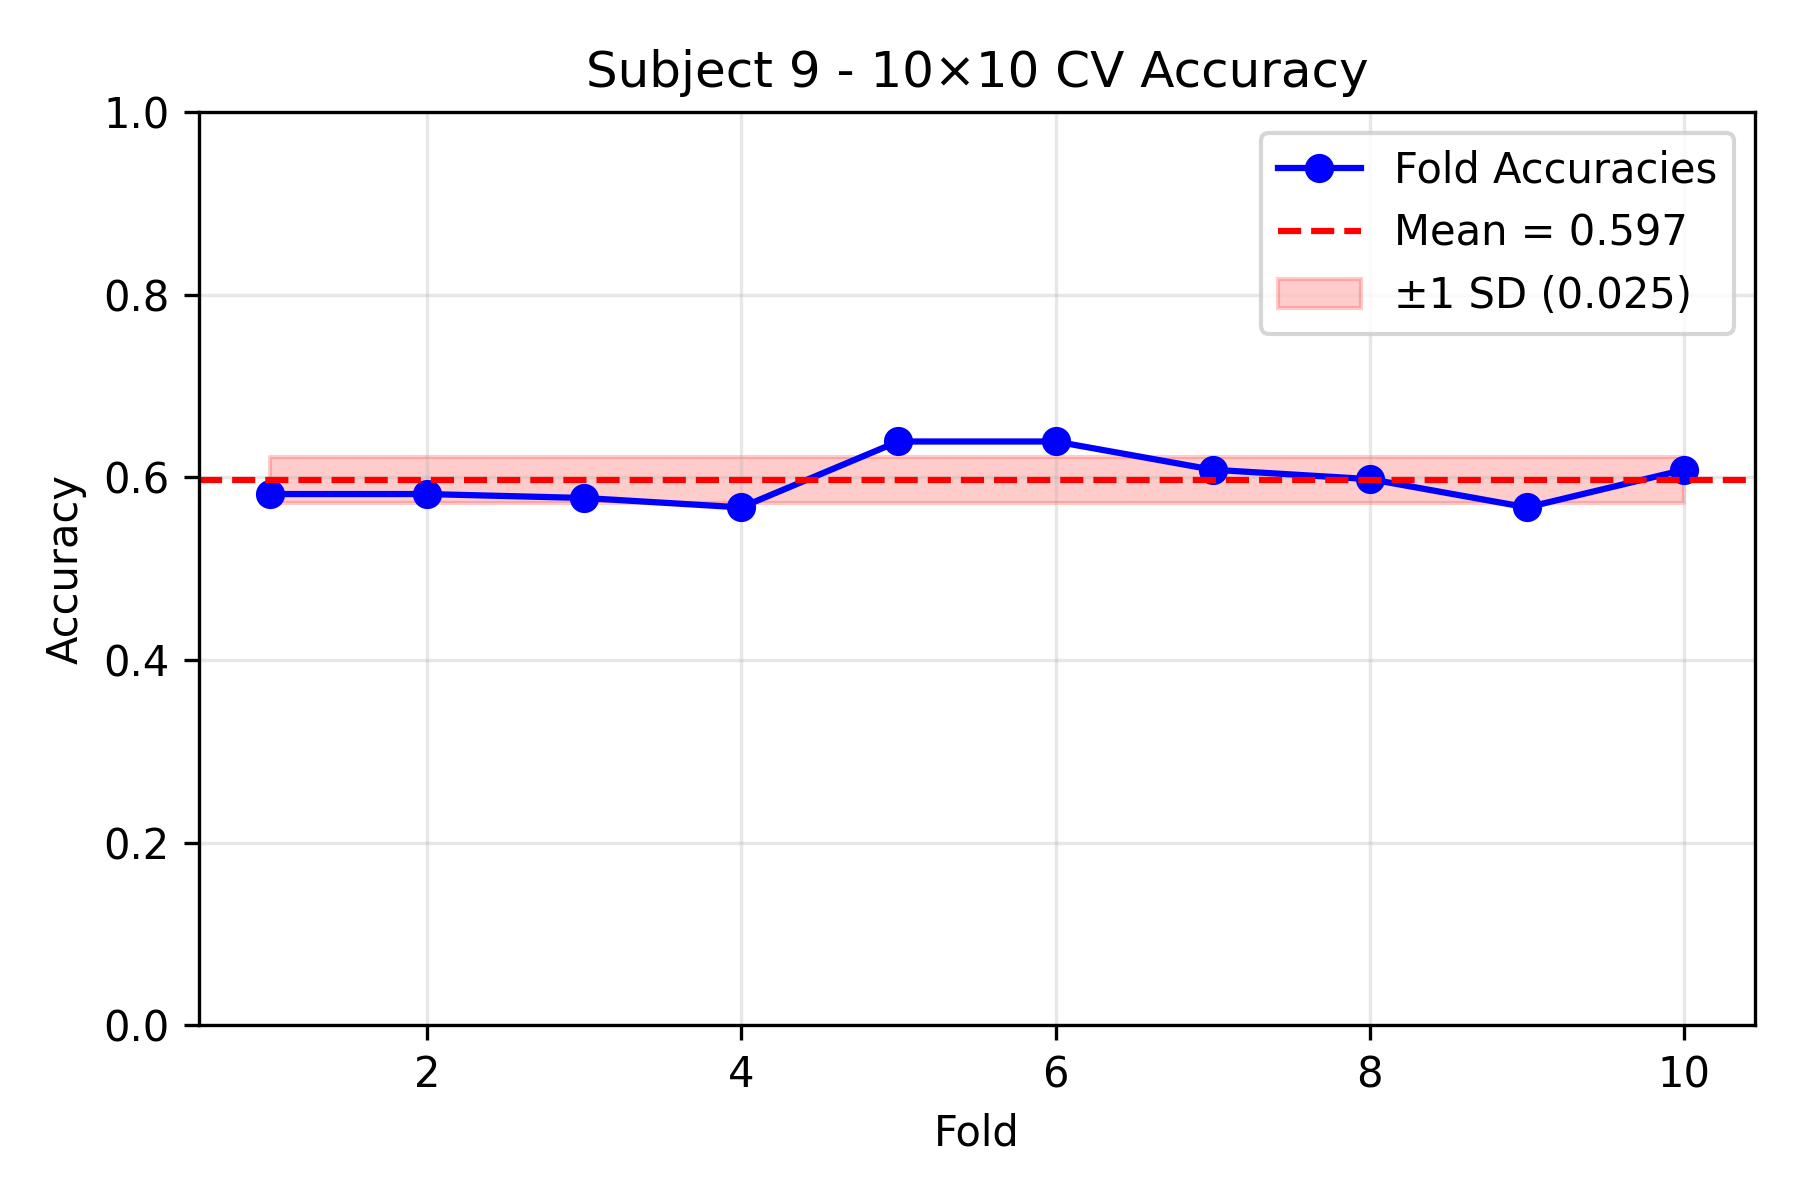
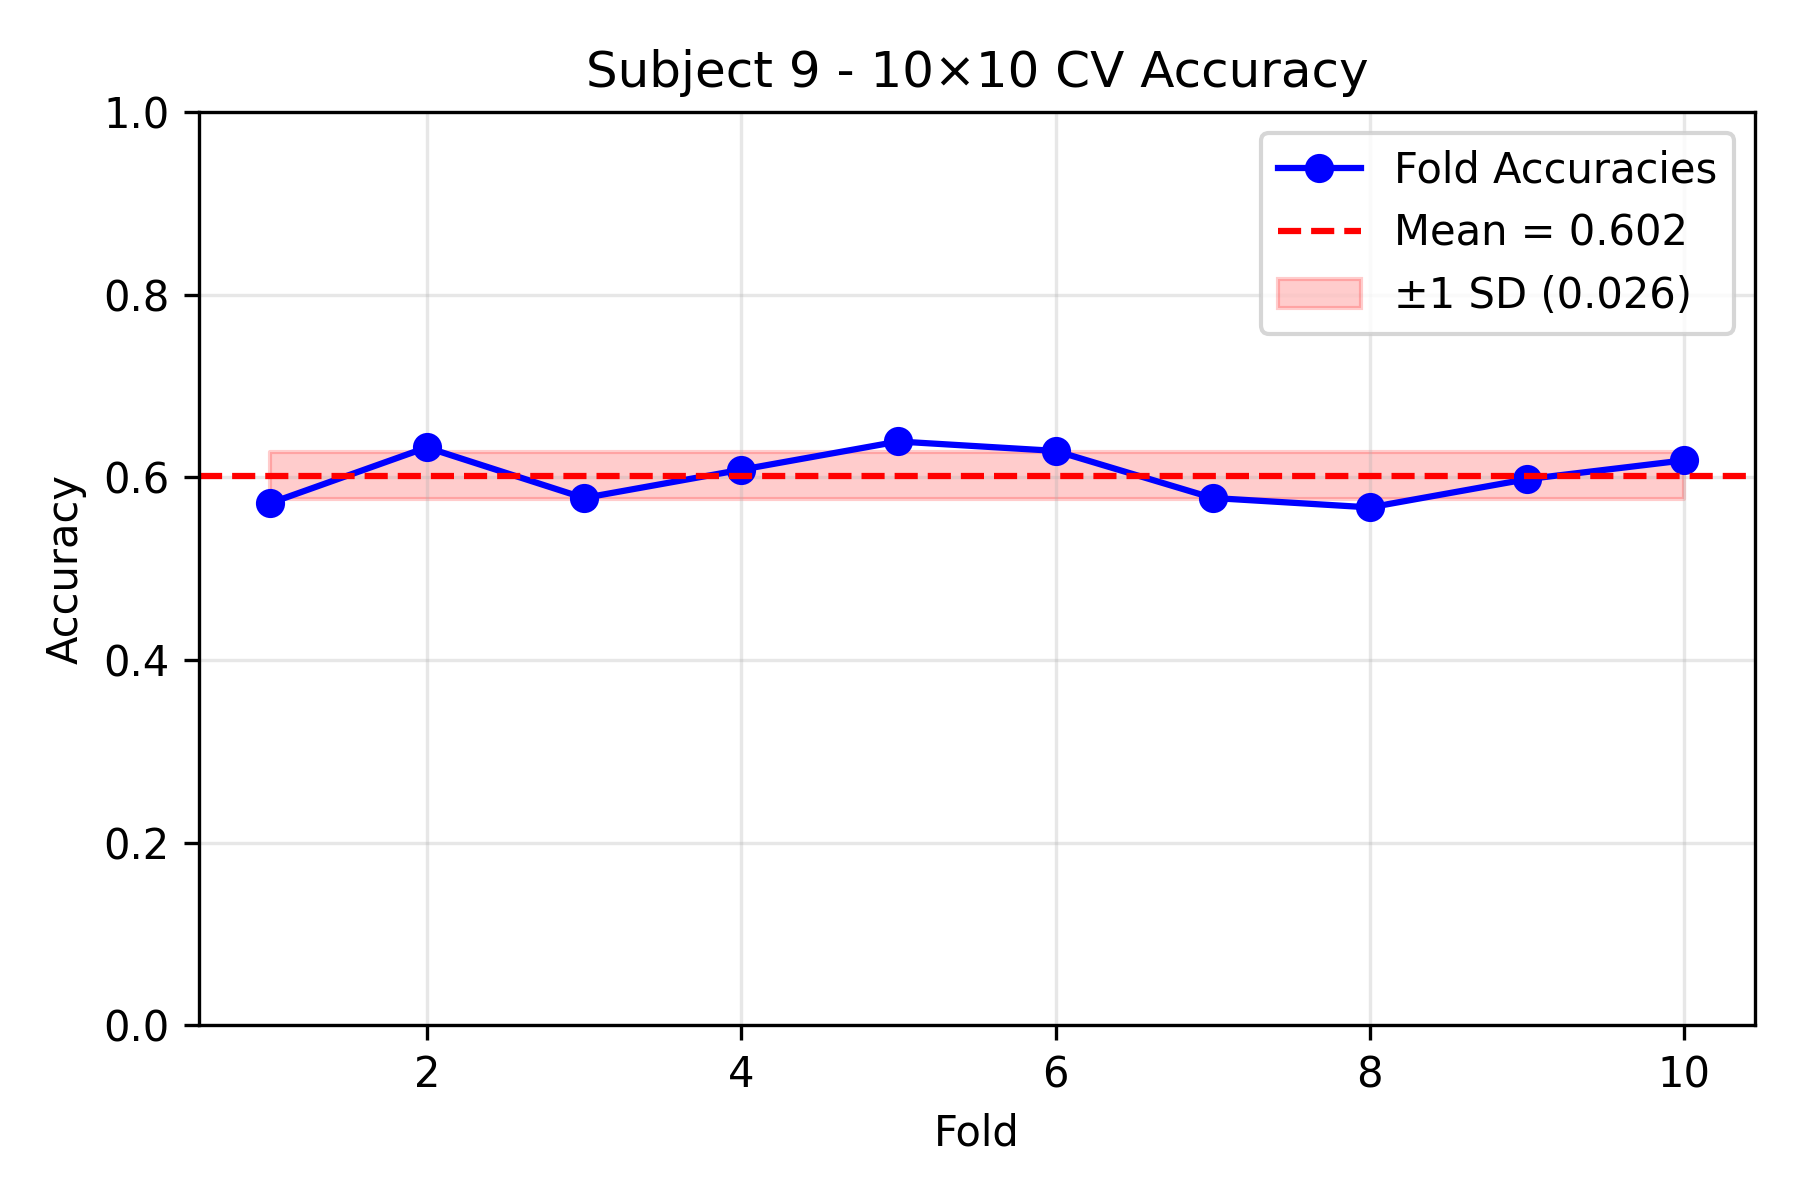
set seed 42

Changed region(s): [[0.1244, 0.3392, 0.9644, 0.4317], [0.9022, 0.185, 0.9333, 0.2158]]

diff --git a/CSP_LDA(baseline)_10x10.py b/CSP_LDA(baseline)_10x10.py
@@ -1,11 +1,20 @@
 import mne
 import numpy as np
-import glob, re, os
+import glob, re, os, random
 from sklearn.discriminant_analysis import LinearDiscriminantAnalysis
 from sklearn.pipeline import Pipeline
 from mne.decoding import CSP
 from sklearn.model_selection import StratifiedKFold
 import matplotlib.pyplot as plt
+
+# --------------------------
+# 0. 시드 고정
+# --------------------------
+SEED = 42
+def set_seed(seed=SEED):
+    random.seed(seed)
+    np.random.seed(seed)
+set_seed()
 
 # --------------------------
 # 1. dataset 불러오기 (Training 세션만)
@@ -16,17 +25,17 @@ print("Using files:", files)
 X_all, y_all, subj_ids = [], [], []
 
 for f in files:
-    subj_id = int(re.findall(r"B0(\d)", f)[0])  # subject ID 추출
+    subj_id = int(re.findall(r"B0(\d)", f)[0])
     print(f"\n=== Loading {f} (Subject {subj_id}) ===")
 
     raw = mne.io.read_raw_gdf(f, preload=True)
     events, event_dict = mne.events_from_annotations(raw)
 
-    # C3 단일 채널만 사용
+    # ✅ C3 단일 채널 + 8–30Hz band-pass FIR filter
     raw.pick_channels(["EEG:C3"])
     raw.filter(8., 30., fir_design="firwin")
 
-    # MI 이벤트 매핑
+    # MI 이벤트
     if "769" in event_dict:
         left = event_dict["769"]
         right = event_dict["770"]
@@ -34,30 +43,29 @@ for f in files:
         left = event_dict[769]
         right = event_dict[770]
     else:
-        print(f"⚠ {f}에서 MI 이벤트 없음 → 건너뜀")
+        print(f"⚠ {f}: MI 이벤트 없음 → 건너뜀")
         continue
 
-    # 이벤트를 공통 코드(1,2)로 변환
+    # 이벤트 재매핑
     events_fixed = events.copy()
     events_fixed[events_fixed[:, -1] == left, -1] = 1
     events_fixed[events_fixed[:, -1] == right, -1] = 2
     event_id = {"left": 1, "right": 2}
 
-    # === Rest epochs (−4.0 ~ 0.0 s) ===
+    # === Rest epochs (−4~0s)
     rest_epochs = mne.Epochs(raw, events_fixed, event_id=event_id,
                              tmin=-4.0, tmax=0.0,
                              baseline=None, preload=True)
-    X_rest = rest_epochs.get_data()   # (n_trials, 1, times)
-    y_rest = np.zeros(len(X_rest))    # label = 0
+    X_rest = rest_epochs.get_data()
+    y_rest = np.zeros(len(X_rest))
 
-    # === MI epochs (0.0 ~ 4.0 s) ===
+    # === MI epochs (0~4s)
     mi_epochs = mne.Epochs(raw, events_fixed, event_id=event_id,
                            tmin=0.0, tmax=4.0,
                            baseline=None, preload=True)
     X_mi = mi_epochs.get_data()
-    y_mi = np.ones(len(X_mi))         # label = 1
+    y_mi = np.ones(len(X_mi))
 
-    # Rest + MI 합치기
     X_subj = np.concatenate([X_rest, X_mi], axis=0)
     y_subj = np.concatenate([y_rest, y_mi], axis=0)
 
@@ -68,7 +76,7 @@ for f in files:
 # --------------------------
 # 2. 데이터 합치기
 # --------------------------
-X = np.concatenate(X_all, axis=0)  # (trials, 1, times)
+X = np.concatenate(X_all, axis=0)
 y = np.concatenate(y_all, axis=0)
 subj_ids = np.array(subj_ids)
 
@@ -94,11 +102,10 @@ subject_results = []
 
 for subj in unique_subjects:
     subj_mask = subj_ids == subj
-    X_subj = X[subj_mask]
-    y_subj = y[subj_mask]
+    X_subj, y_subj = X[subj_mask], y[subj_mask]
     print(f"\n=== Subject {subj}: 10×10 CV ({len(y_subj)} trials) ===")
 
-    skf = StratifiedKFold(n_splits=10, shuffle=True, random_state=42)
+    skf = StratifiedKFold(n_splits=10, shuffle=True)
     fold_accs = []
 
     for fold, (train_idx, test_idx) in enumerate(skf.split(X_subj, y_subj), 1):
@@ -116,7 +123,7 @@ for subj in unique_subjects:
     print(f" → Subject {subj} mean = {mean_acc:.3f} ± {std_acc:.3f}")
 
     # --------------------------
-    # 5. Fold Accuracy 시각화
+    # Fold Accuracy 시각화
     # --------------------------
     plt.figure(figsize=(7, 4))
     plt.plot(range(1, 11), fold_accs, marker='o', label="Fold Accuracies")
@@ -124,7 +131,6 @@ for subj in unique_subjects:
     plt.fill_between(range(1, 11),
                      mean_acc - std_acc, mean_acc + std_acc,
                      color='r', alpha=0.2, label=f"±1 SD ({std_acc:.3f})")
-
     plt.title(f"Subject {subj} | 10×10 CV Accuracy")
     plt.xlabel("Fold")
     plt.ylabel("Accuracy")
@@ -135,7 +141,7 @@ for subj in unique_subjects:
     plt.close()
 
 # --------------------------
-# 6. 전체 평균 및 막대그래프 시각화
+# 5. 전체 평균 및 시각화
 # --------------------------
 overall_mean = np.mean(subject_results)
 overall_std = np.std(subject_results)
@@ -144,9 +150,6 @@ print("\n✅ Subject-wise mean accuracies:", np.round(subject_results, 3))
 print(f"Overall mean = {overall_mean:.3f} ± {overall_std:.3f}")
 print(f"📁 Results saved to: {save_dir}/")
 
-# --------------------------
-# 7. 전체 subject 막대그래프 시각화
-# --------------------------
 subjects = [f"Subj{s}" for s in unique_subjects]
 plt.figure(figsize=(8, 5))
 plt.bar(subjects, subject_results, color='lightseagreen', edgecolor='k')
@@ -154,8 +157,7 @@ plt.axhline(overall_mean, color='red', linestyle='--', label=f'Mean = {overall_m
 plt.fill_between(range(len(subjects)),
                  overall_mean - overall_std, overall_mean + overall_std,
                  color='red', alpha=0.2, label=f'±1 SD ({overall_std:.3f})')
-
-plt.title("Subject-wise Mean Accuracy (CSP+LDA, 10×10 CV, C3)")
+plt.title("Subject-wise Mean Accuracy (CSP+LDA, 10×10 CV, C3 8–30Hz)")
 plt.ylabel("Accuracy")
 plt.ylim(0, 1)
 plt.xticks(rotation=45)

diff --git a/train_EEGNet_10x10.py b/train_EEGNet_10x10.py
@@ -1,13 +1,26 @@
 import mne
 import numpy as np
-import glob
+import glob, os, re, random
 import torch
 import torch.nn as nn
 import torch.optim as optim
 from torch.utils.data import DataLoader, TensorDataset
 import matplotlib.pyplot as plt
-import os, re
 from sklearn.model_selection import StratifiedKFold
+
+# --------------------------
+# 0. 시드 고정 (완전 재현용)
+# --------------------------
+SEED = 42
+def set_seed(seed=SEED):
+    import torch.backends.cudnn as cudnn
+    random.seed(seed)
+    np.random.seed(seed)
+    torch.manual_seed(seed)
+    torch.cuda.manual_seed_all(seed)
+    cudnn.deterministic = True
+    cudnn.benchmark = False
+set_seed(SEED)
 
 # --------------------------
 # 1. dataset 불러오기 (Training 세션만, 단채널 C3)
@@ -18,23 +31,21 @@ print("Using files:", files)
 X_all, y_all, subj_ids = [], [], []
 
 for f in files:
-    subj_id = int(re.findall(r"B0(\d)", f)[0])  # subject ID 추출
+    subj_id = int(re.findall(r"B0(\d)", f)[0])
     print(f"\n=== Loading {f} (Subject {subj_id}) ===")
 
-    raw = mne.io.read_raw_gdf(f, preload=True)
-    events, event_dict = mne.events_from_annotations(raw)
+    raw = mne.io.read_raw_gdf(f, preload=True, verbose=False)
+    events, event_dict = mne.events_from_annotations(raw, verbose=False)
 
-    # --- 단일채널 C3 + Band-pass 8–30 Hz (FIR)
+    # --- ✅ 단일채널 C3 + Band-pass 8–30 Hz (FIR)
     raw.pick_channels(["EEG:C3"])
-    raw.filter(8., 30., fir_design="firwin")
+    raw.filter(8., 30., fir_design="firwin", verbose=False)
 
     # --- MI 이벤트 탐색
     if "769" in event_dict:
-        left = event_dict["769"]
-        right = event_dict["770"]
+        left, right = event_dict["769"], event_dict["770"]
     elif 769 in event_dict:
-        left = event_dict[769]
-        right = event_dict[770]
+        left, right = event_dict[769], event_dict[770]
     else:
         print(f"⚠ {f}에서 MI 이벤트 없음 → 건너뜀")
         continue
@@ -48,14 +59,14 @@ for f in files:
     # === Rest epochs (−4.0 ~ 0.0 s)
     rest_epochs = mne.Epochs(raw, events_fixed, event_id=event_id,
                              tmin=-4.0, tmax=0.0,
-                             baseline=None, preload=True)
+                             baseline=None, preload=True, verbose=False)
     X_rest = rest_epochs.get_data()
     y_rest = np.zeros(len(X_rest))
 
     # === MI epochs (0.0 ~ 4.0 s)
     mi_epochs = mne.Epochs(raw, events_fixed, event_id=event_id,
                            tmin=0.0, tmax=4.0,
-                           baseline=None, preload=True)
+                           baseline=None, preload=True, verbose=False)
     X_mi = mi_epochs.get_data()
     y_mi = np.ones(len(X_mi))
 
@@ -143,7 +154,7 @@ for subj in unique_subjects:
     X_subj = X[subj_mask]
     y_subj = y[subj_mask]
 
-    skf = StratifiedKFold(n_splits=10, shuffle=True, random_state=42)
+    skf = StratifiedKFold(n_splits=10, shuffle=True, random_state=SEED)
     fold_accs = []
 
     for fold, (train_idx, test_idx) in enumerate(skf.split(X_subj, y_subj), 1):
@@ -162,7 +173,6 @@ for subj in unique_subjects:
         best_acc = 0
         for epoch in range(50):
             model.train()
-            correct, total = 0, 0
             for xb, yb in train_loader:
                 xb, yb = xb.to(device), yb.to(device)
                 optimizer.zero_grad()
@@ -170,8 +180,6 @@ for subj in unique_subjects:
                 loss = criterion(out, yb)
                 loss.backward()
                 optimizer.step()
-                correct += (out.argmax(1) == yb).sum().item()
-                total += yb.size(0)
 
             # validation
             model.eval()
@@ -228,7 +236,7 @@ plt.axhline(overall_mean, color='red', linestyle='--', label=f'Mean = {overall_m
 plt.fill_between(range(len(subjects)),
                  overall_mean - overall_std, overall_mean + overall_std,
                  color='red', alpha=0.2, label=f'±1 SD ({overall_std:.3f})')
-plt.title("Subject-wise Mean Accuracy (EEGNet1Ch, 10×10 CV, C3)")
+plt.title("Subject-wise Mean Accuracy (EEGNet1Ch, 10×10 CV, C3 8–30Hz)")
 plt.ylabel("Accuracy")
 plt.ylim(0, 1)
 plt.xticks(rotation=45)

diff --git a/train_LightWeightCNN_10x10.py b/train_LightWeightCNN_10x10.py
@@ -1,12 +1,26 @@
 import mne
 import numpy as np
-import glob, re, os
+import glob, re, os, random
 import torch
 import torch.nn as nn
 import torch.optim as optim
 from sklearn.model_selection import StratifiedKFold
 from torch.utils.data import DataLoader, TensorDataset
 import matplotlib.pyplot as plt
+
+# --------------------------
+# 0. SEED 고정 (완전 재현용)
+# --------------------------
+SEED = 42
+def set_seed(seed=SEED):
+    import torch.backends.cudnn as cudnn
+    random.seed(seed)
+    np.random.seed(seed)
+    torch.manual_seed(seed)
+    torch.cuda.manual_seed_all(seed)
+    cudnn.deterministic = True
+    cudnn.benchmark = False
+set_seed(SEED)
 
 # --------------------------
 # 1. Dataset 불러오기 (Training 세션만, 단채널 C3)
@@ -23,7 +37,7 @@ for f in files:
     raw = mne.io.read_raw_gdf(f, preload=True)
     events, event_dict = mne.events_from_annotations(raw)
 
-    # --- C3 단일 채널 + FIR 8–30 Hz 필터
+    # --- ✅ C3 단일 채널 + FIR 8–30 Hz 필터
     raw.pick_channels(["EEG:C3"])
     raw.filter(8., 30., fir_design="firwin")
 
@@ -88,7 +102,6 @@ class Light1DCNN(nn.Module):
         nn.init.xavier_uniform_(self.fc.weight)
 
     def forward(self, x):
-        # 입력 형태: (B, 1, T)
         x = torch.relu(self.conv1(x))
         x = torch.relu(self.conv2(x))
         x = self.pool(x)
@@ -111,7 +124,7 @@ for subj in unique_subjects:
     subj_mask = subj_ids == subj
     X_subj, y_subj = X[subj_mask], y[subj_mask]
 
-    skf = StratifiedKFold(n_splits=10, shuffle=True, random_state=42)
+    skf = StratifiedKFold(n_splits=10, shuffle=True, random_state=SEED)
     fold_accs = []
 
     for fold, (train_idx, test_idx) in enumerate(skf.split(X_subj, y_subj), 1):
@@ -130,7 +143,6 @@ for subj in unique_subjects:
         best_acc = 0
         for epoch in range(50):
             model.train()
-            correct, total = 0, 0
             for xb, yb in train_loader:
                 xb, yb = xb.to(device), yb.to(device)
                 optimizer.zero_grad()
@@ -138,8 +150,6 @@ for subj in unique_subjects:
                 loss = criterion(out, yb)
                 loss.backward()
                 optimizer.step()
-                correct += (out.argmax(1) == yb).sum().item()
-                total += yb.size(0)
 
             # Validation
             model.eval()
@@ -196,7 +206,7 @@ plt.axhline(overall_mean, color='red', linestyle='--', label=f'Mean = {overall_m
 plt.fill_between(range(len(subjects)),
                  overall_mean - overall_std, overall_mean + overall_std,
                  color='red', alpha=0.2, label=f'±1 SD ({overall_std:.3f})')
-plt.title("Subject-wise Mean Accuracy (Light1D-CNN, 10×10 CV, C3)")
+plt.title("Subject-wise Mean Accuracy (Light1D-CNN, 10×10 CV, C3 8–30Hz)")
 plt.ylabel("Accuracy")
 plt.ylim(0, 1)
 plt.xticks(rotation=45)
